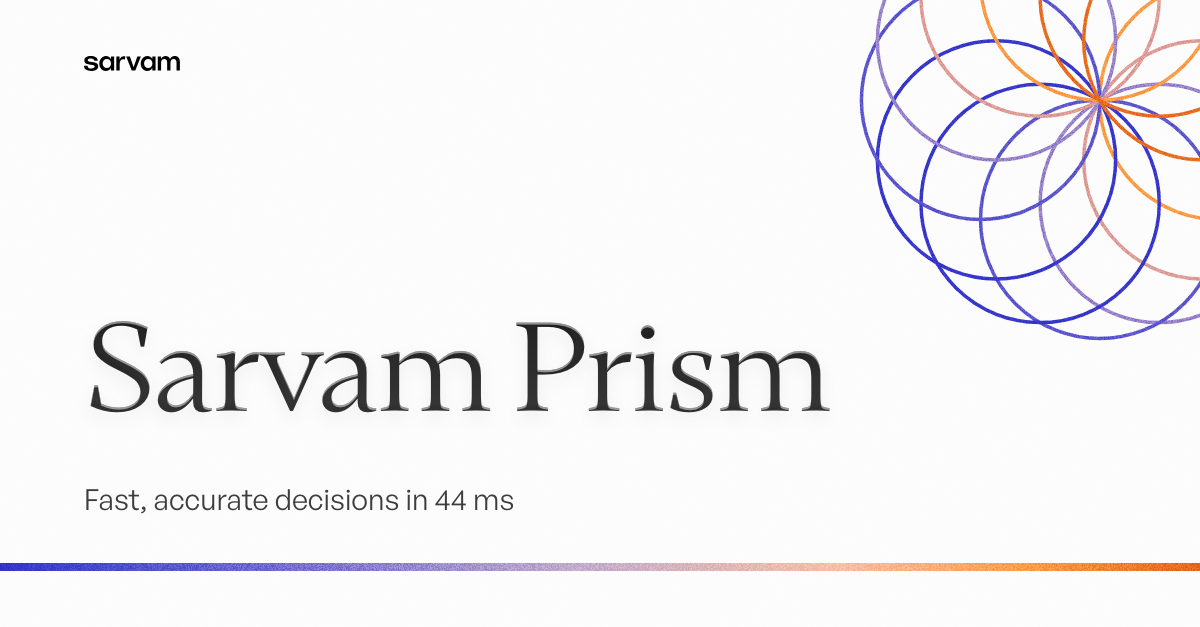
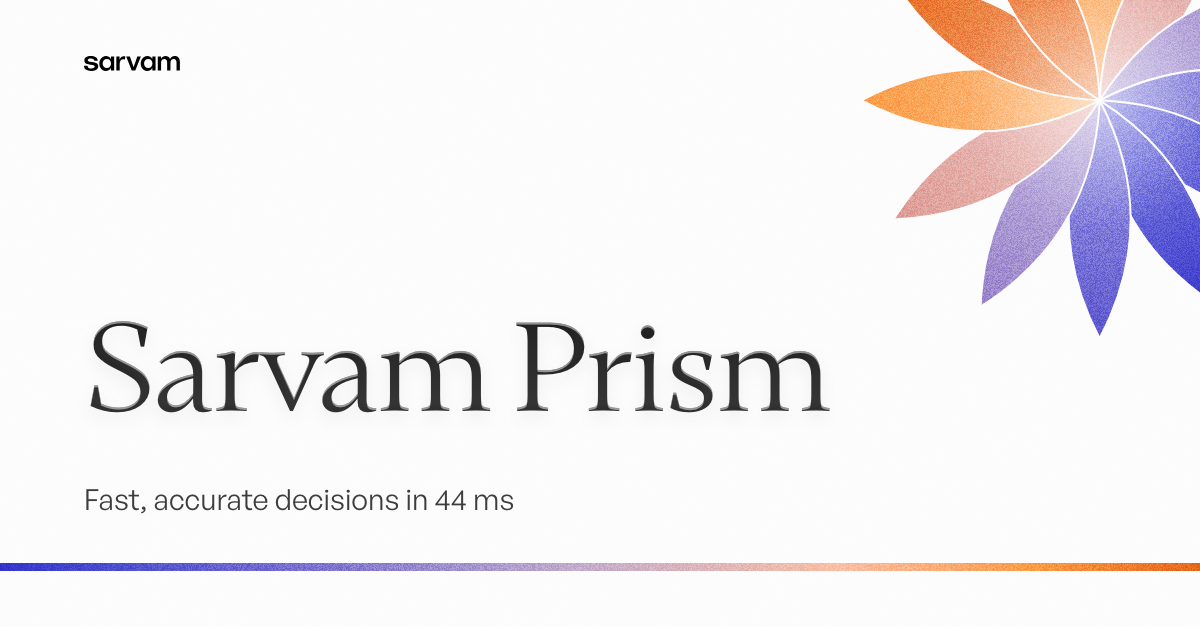
Prism spectrum: solid lotus rosette with base-to-tip spectrum gradient

Changed region(s): [[0.7092, 0.0, 1.0, 0.5455]]

diff --git a/src/components/sarvam/composer.tsx b/src/components/sarvam/composer.tsx
@@ -31,6 +31,7 @@ export type BannerSpec = {
   logo?: "wordmark" | "logomark";  // logomark = the official lotus symbol, used alone (logo.md: never beside the wordmark)
   card?: "plan" | "research" | "review";   // product moment shown inside the device (split / stacked only); arch-window shows it through the arch
   icon?: EmblemIcon;               // emblem device: the one object that stands for the subject
+  rosetteSolid?: boolean;          // spectrum device, lens: filled petals with a base → tip gradient instead of lines
   rosette?: "circles" | "lobes" | "lens" | "orbits" | "rings";   // spectrum device: the corner rosette (circles = the logomark's own construction)
 };
 /** Emblem icons: Nucleo Core outline only (components.md §3). One object per idea. */
@@ -322,6 +323,8 @@ function spectrumAt(t: number) {
   const u = o1 === o0 ? 0 : (t - o0) / (o1 - o0), h = (c: string) => [1, 3, 5].map((j) => parseInt(c.slice(j, j + 2), 16));
   return "#" + h(a).map((v, j) => Math.round(v + (h(b)[j] - v) * u).toString(16).padStart(2, "0")).join("");
 }
+/** Mix two hex colours (t = 0 → a, 1 → b). */
+const mixHex = (a: string, b: string, t: number) => { const h = (c: string) => [1, 3, 5].map((j) => parseInt(c.slice(j, j + 2), 16)); return "#" + h(a).map((v, j) => Math.round(v + (h(b)[j] - v) * t).toString(16).padStart(2, "0")).join(""); };
 /** Spectrum line: one thin, hard-edged strip of the brand spectrum across a calm canvas, like light through a prism.
  *  The top-right corner holds a rosette built the way Sarvam's logomark is built: ONE element repeated around a centre
  *  (identical shape, identical line: 4.5px Meta / 3.5px LinkedIn, even rotation), each copy one hue of the spectrum, cropped by the corner. */
@@ -345,8 +348,15 @@ function spectrumDevice(spec: BannerSpec, F: Frame, _id: string, land: boolean):
       }
       case "lens": {
         // vesica petals: equal lenses from the centre outward (a lotus drawn with two arcs each)
-        const L = R, w = R * 0.26;
-        return <path key={i} d={`M0 0 Q${w} ${-L / 2} 0 ${-L} Q${-w} ${-L / 2} 0 0 Z`} transform={`translate(${cx} ${cy}) rotate(${a})`} stroke={c} />;
+        const L = R, w = R * 0.26, d = `M0 0 Q${w} ${-L / 2} 0 ${-L} Q${-w} ${-L / 2} 0 0 Z`;
+        if (!spec.rosetteSolid) return <path key={i} d={d} transform={`translate(${cx} ${cy}) rotate(${a})`} stroke={c} />;
+        // solid: each petal filled base → tip, from a pale tint of its hue to the full hue; a canvas-coloured edge keeps overlaps crisp
+        return (
+          <g key={i}>
+            <defs><linearGradient id={`${_id}-pt${i}`} x1="0" y1="1" x2="0" y2="0"><stop offset="0" stopColor={mixHex(c, "#ffffff", 0.7)} /><stop offset="0.55" stopColor={mixHex(c, "#ffffff", 0.2)} /><stop offset="1" stopColor={c} /></linearGradient></defs>
+            <path d={d} transform={`translate(${cx} ${cy}) rotate(${a})`} fill={`url(#${_id}-pt${i})`} stroke="#fcfcfc" strokeWidth={land ? 2 : 2.5} />
+          </g>
+        );
       }
       case "orbits":
         // equal ellipses sharing the centre, each turned by 180/n: a calm spirograph

diff --git a/src/app/banners/make/Maker.tsx b/src/app/banners/make/Maker.tsx
@@ -47,6 +47,7 @@ export default function Maker() {
         <label className="mk-field"><span>Partner (lockup next to the wordmark, optional)</span>
           <input value={spec.partner ?? ""} placeholder="e.g. Supernova" onChange={(e) => set({ partner: e.target.value || undefined })} /></label>
         {spec.device === "spectrum" && <Seg name="Corner rosette" value={spec.rosette ?? "circles"} options={["circles", "lens", "orbits", "rings", "lobes"] as const} onChange={(v) => set({ rosette: v })} />}
+        {spec.device === "spectrum" && spec.rosette === "lens" && <Seg name="Petals" value={spec.rosetteSolid ? "solid" : "line"} options={["line", "solid"] as const} onChange={(v) => set({ rosetteSolid: v === "solid" })} />}
         {spec.device === "emblem" && <Seg name="Emblem object" value={spec.icon ?? "sparkle"} options={Object.keys(EMBLEM_ICONS) as EmblemIcon[]} onChange={(v) => set({ icon: v })} />}
         {((spec.layout ?? "centered") !== "centered" || spec.device === "arch-window") && <Seg name={spec.device === "arch-window" ? "Product through the arch" : "Product card inside the device"} value={spec.card ?? "none"} options={["none", "plan", "research", "review"] as const} onChange={(v) => set({ card: v === "none" ? undefined : v })} />}
         <Seg name="Headline style" value={spec.titleStyle} options={["serif", "sans"] as const} onChange={(v) => set({ titleStyle: v })} />

diff --git a/design-system/design.md b/design-system/design.md
@@ -1989,7 +1989,7 @@ Every Sarvam banner is a **composition of a few choices + at most two lines of t
    | `gateway-window` | 3 carved layers opening onto warm cream light | Funding, big announcements |
    | `gateway-echo` | 5 thin outline gateways rising from the bottom | Announcements |
       | `gloss` | Mirrored cluster of glossy studio shapes | Events, programs, community |
-   | `spectrum` | **Our taste** `[addition]`: a calm off-white canvas, one thin hard-edged strip of the brand spectrum (indigo → orange) near the bottom, and a **rosette** in the top-right corner, cropped by the corner. It is built the way Sarvam's logomark is built: **one element repeated around a centre** `rosette`: **circles** (default: 12 equal circles through one centre, the logomark's construction), **lens** (12 vesica petals, a lotus), **orbits** (6 equal ellipses turned by 30°), **rings** (6 concentric circles, the hue stepping outward), **lobes** (12 rounded petals). Every copy is the same line (4.5px Meta, 3.5px LinkedIn), and each one takes a hue of the spectrum by its direction: indigo toward the canvas, orange toward the corner. Text is set left and low (`editorial` layout). | Model launches and announcements that should feel calm and precise |
+   | `spectrum` | **Our taste** `[addition]`: a calm off-white canvas, one thin hard-edged strip of the brand spectrum (indigo → orange) near the bottom, and a **rosette** in the top-right corner, cropped by the corner. It is built the way Sarvam's logomark is built: **one element repeated around a centre** `rosette`: **circles** (default: 12 equal circles through one centre, the logomark's construction), **lens** (12 vesica petals, a lotus; `rosetteSolid: true` fills each petal with a gradient from a pale tint of its hue at the centre to the full hue at the tip, with a 2.5px canvas-coloured edge between petals), **orbits** (6 equal ellipses turned by 30°), **rings** (6 concentric circles, the hue stepping outward), **lobes** (12 rounded petals). Every copy is the same line (4.5px Meta, 3.5px LinkedIn), and each one takes a hue of the spectrum by its direction: indigo toward the canvas, orange toward the corner. Text is set left and low (`editorial` layout). | Model launches and announcements that should feel calm and precise |
    | `emblem` | One frosted, bevelled medallion with **one Nucleo icon engraved** in it, echo rings on true offsets. Text sits beside it (split on LinkedIn, stacked on Meta). `icon`: shield, plug, check, calendar, search, globe, inbox, megaphone, target, chart, book, sparkle, person | A capability you can name as an object |
    | `arch-window` | The gateway as a **window onto the real product**: a recessed arch (Mihrab / Domed door) standing on the bottom edge, light inside, one frozen product mock (`card`) seen through it. Text beside it | A product moment you can see |
    | `script-mandala` | **"Sarvam" in nine Indian scripts**, set in rings around a glowing disc. Meta: the headline sits in the disc. LinkedIn: the logomark sits in the disc and the text sits left (the wordmark is dropped; never both) `[addition]` | India, languages, mission, sovereignty, people |

diff --git a/design-system/recipes/banner-builder.md b/design-system/recipes/banner-builder.md
@@ -65,7 +65,7 @@ Every Sarvam banner is a **composition of a few choices + at most two lines of t
    | `gateway-window` | 3 carved layers opening onto warm cream light | Funding, big announcements |
    | `gateway-echo` | 5 thin outline gateways rising from the bottom | Announcements |
       | `gloss` | Mirrored cluster of glossy studio shapes | Events, programs, community |
-   | `spectrum` | **Our taste** `[addition]`: a calm off-white canvas, one thin hard-edged strip of the brand spectrum (indigo → orange) near the bottom, and a **rosette** in the top-right corner, cropped by the corner. It is built the way Sarvam's logomark is built: **one element repeated around a centre** `rosette`: **circles** (default: 12 equal circles through one centre, the logomark's construction), **lens** (12 vesica petals, a lotus), **orbits** (6 equal ellipses turned by 30°), **rings** (6 concentric circles, the hue stepping outward), **lobes** (12 rounded petals). Every copy is the same line (4.5px Meta, 3.5px LinkedIn), and each one takes a hue of the spectrum by its direction: indigo toward the canvas, orange toward the corner. Text is set left and low (`editorial` layout). | Model launches and announcements that should feel calm and precise |
+   | `spectrum` | **Our taste** `[addition]`: a calm off-white canvas, one thin hard-edged strip of the brand spectrum (indigo → orange) near the bottom, and a **rosette** in the top-right corner, cropped by the corner. It is built the way Sarvam's logomark is built: **one element repeated around a centre** `rosette`: **circles** (default: 12 equal circles through one centre, the logomark's construction), **lens** (12 vesica petals, a lotus; `rosetteSolid: true` fills each petal with a gradient from a pale tint of its hue at the centre to the full hue at the tip, with a 2.5px canvas-coloured edge between petals), **orbits** (6 equal ellipses turned by 30°), **rings** (6 concentric circles, the hue stepping outward), **lobes** (12 rounded petals). Every copy is the same line (4.5px Meta, 3.5px LinkedIn), and each one takes a hue of the spectrum by its direction: indigo toward the canvas, orange toward the corner. Text is set left and low (`editorial` layout). | Model launches and announcements that should feel calm and precise |
    | `emblem` | One frosted, bevelled medallion with **one Nucleo icon engraved** in it, echo rings on true offsets. Text sits beside it (split on LinkedIn, stacked on Meta). `icon`: shield, plug, check, calendar, search, globe, inbox, megaphone, target, chart, book, sparkle, person | A capability you can name as an object |
    | `arch-window` | The gateway as a **window onto the real product**: a recessed arch (Mihrab / Domed door) standing on the bottom edge, light inside, one frozen product mock (`card`) seen through it. Text beside it | A product moment you can see |
    | `script-mandala` | **"Sarvam" in nine Indian scripts**, set in rings around a glowing disc. Meta: the headline sits in the disc. LinkedIn: the logomark sits in the disc and the text sits left (the wordmark is dropped; never both) `[addition]` | India, languages, mission, sovereignty, people |

diff --git a/process/prompt-log.md b/process/prompt-log.md
@@ -419,3 +419,9 @@ Entry format:
   - Joining the existing circles and lobes.
 - Tried and dropped **arches** (Mihrab gateway repeated by rotation). Even after moving them onto an inner ring, the gateway's long straight sides read as boxy door frames, not a rosette.
 - Sheet: `process/screens/banners-simple/rosette-set-thick.png`. The prism-spectrum banner stays on circles. QA PASS, re-exported. The builder's "Corner rosette" control lists all five.
+
+## 2026-11-04 — Prism spectrum: solid lotus
+- Prompts (verbatim): "use a different type of pattern. I don't want circles." → "Yeah now make it solid and have a gradient in it."
+- The rosette switched to **lens** (12 vesica petals, a lotus).
+- Then made solid (`rosetteSolid`): each petal is filled base → tip, from a 70% white tint of its spectrum hue to the full hue, so the lotus shows the whole spectrum (indigo petals facing the canvas, orange toward the corner). A 2.5px (Meta) / 2px (LinkedIn) canvas-coloured edge keeps the overlapping petals crisp at the centre. No blur, no stroke colour.
+- QA PASS, re-exported. The builder has a Petals line / solid control.
